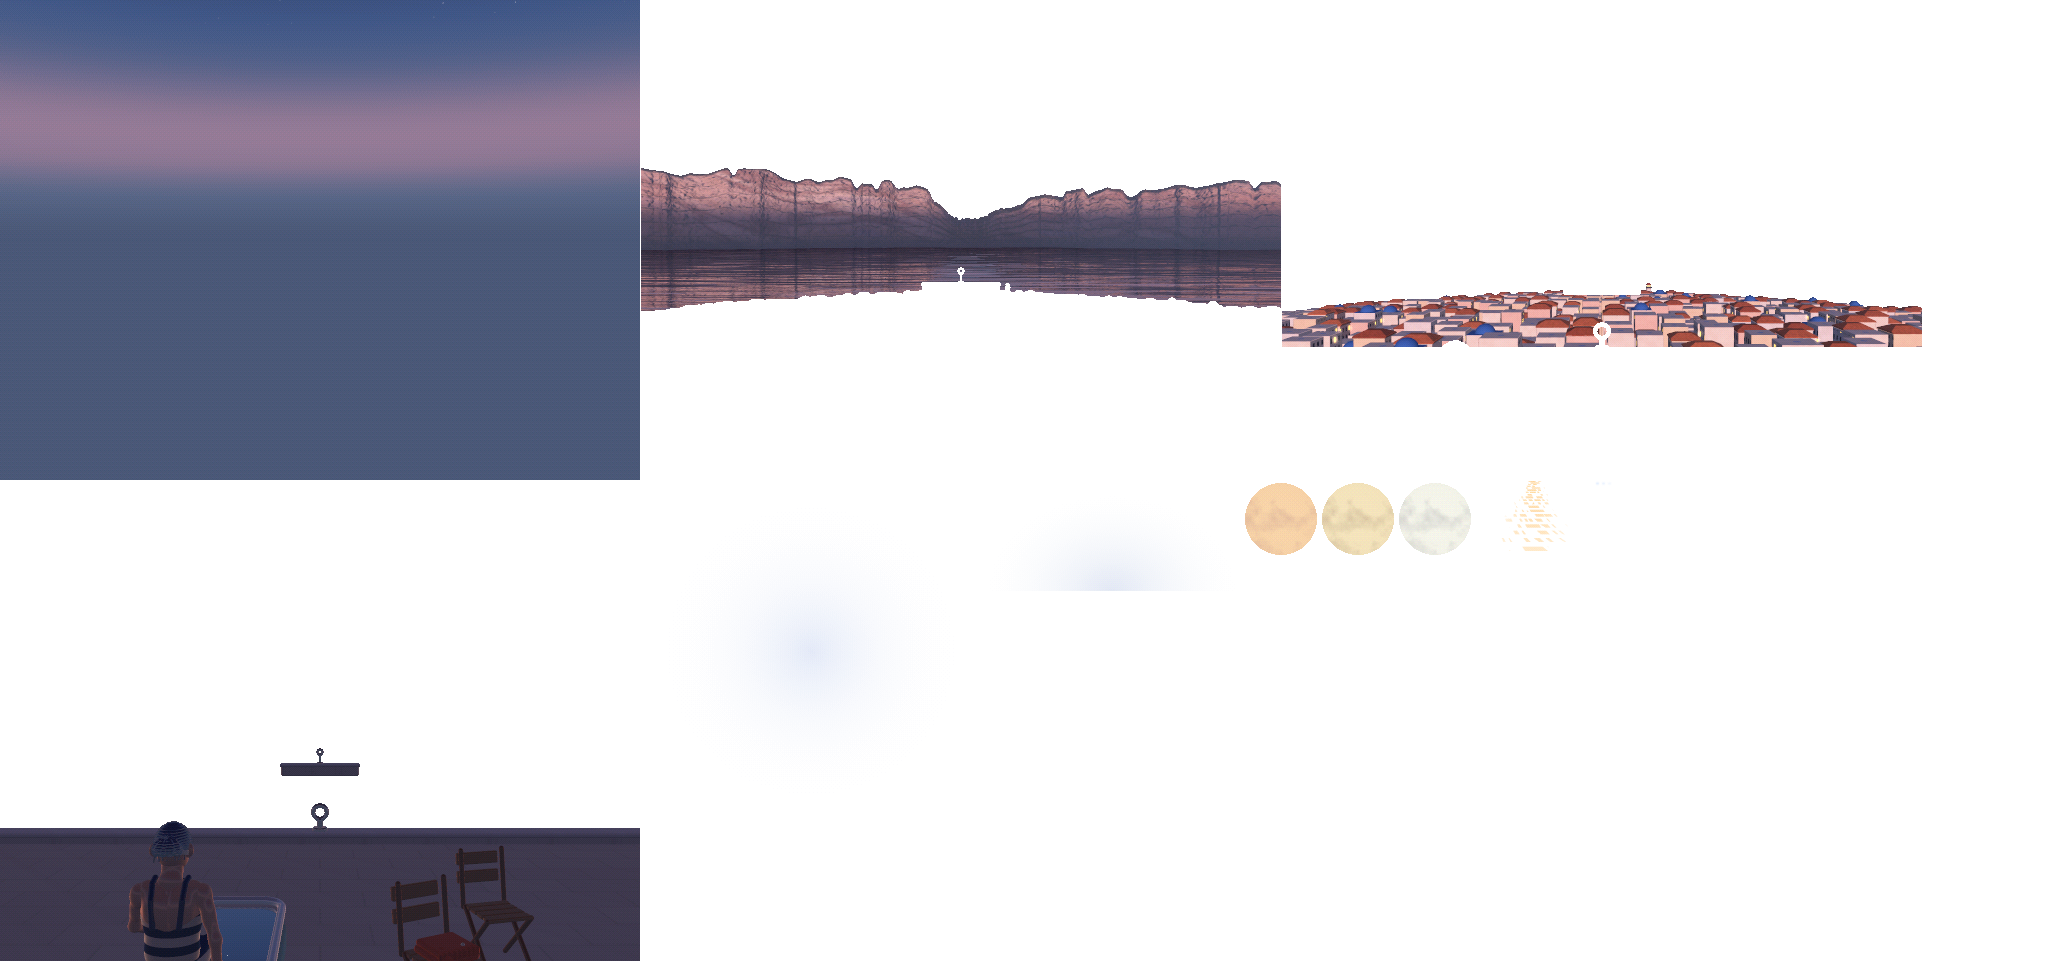
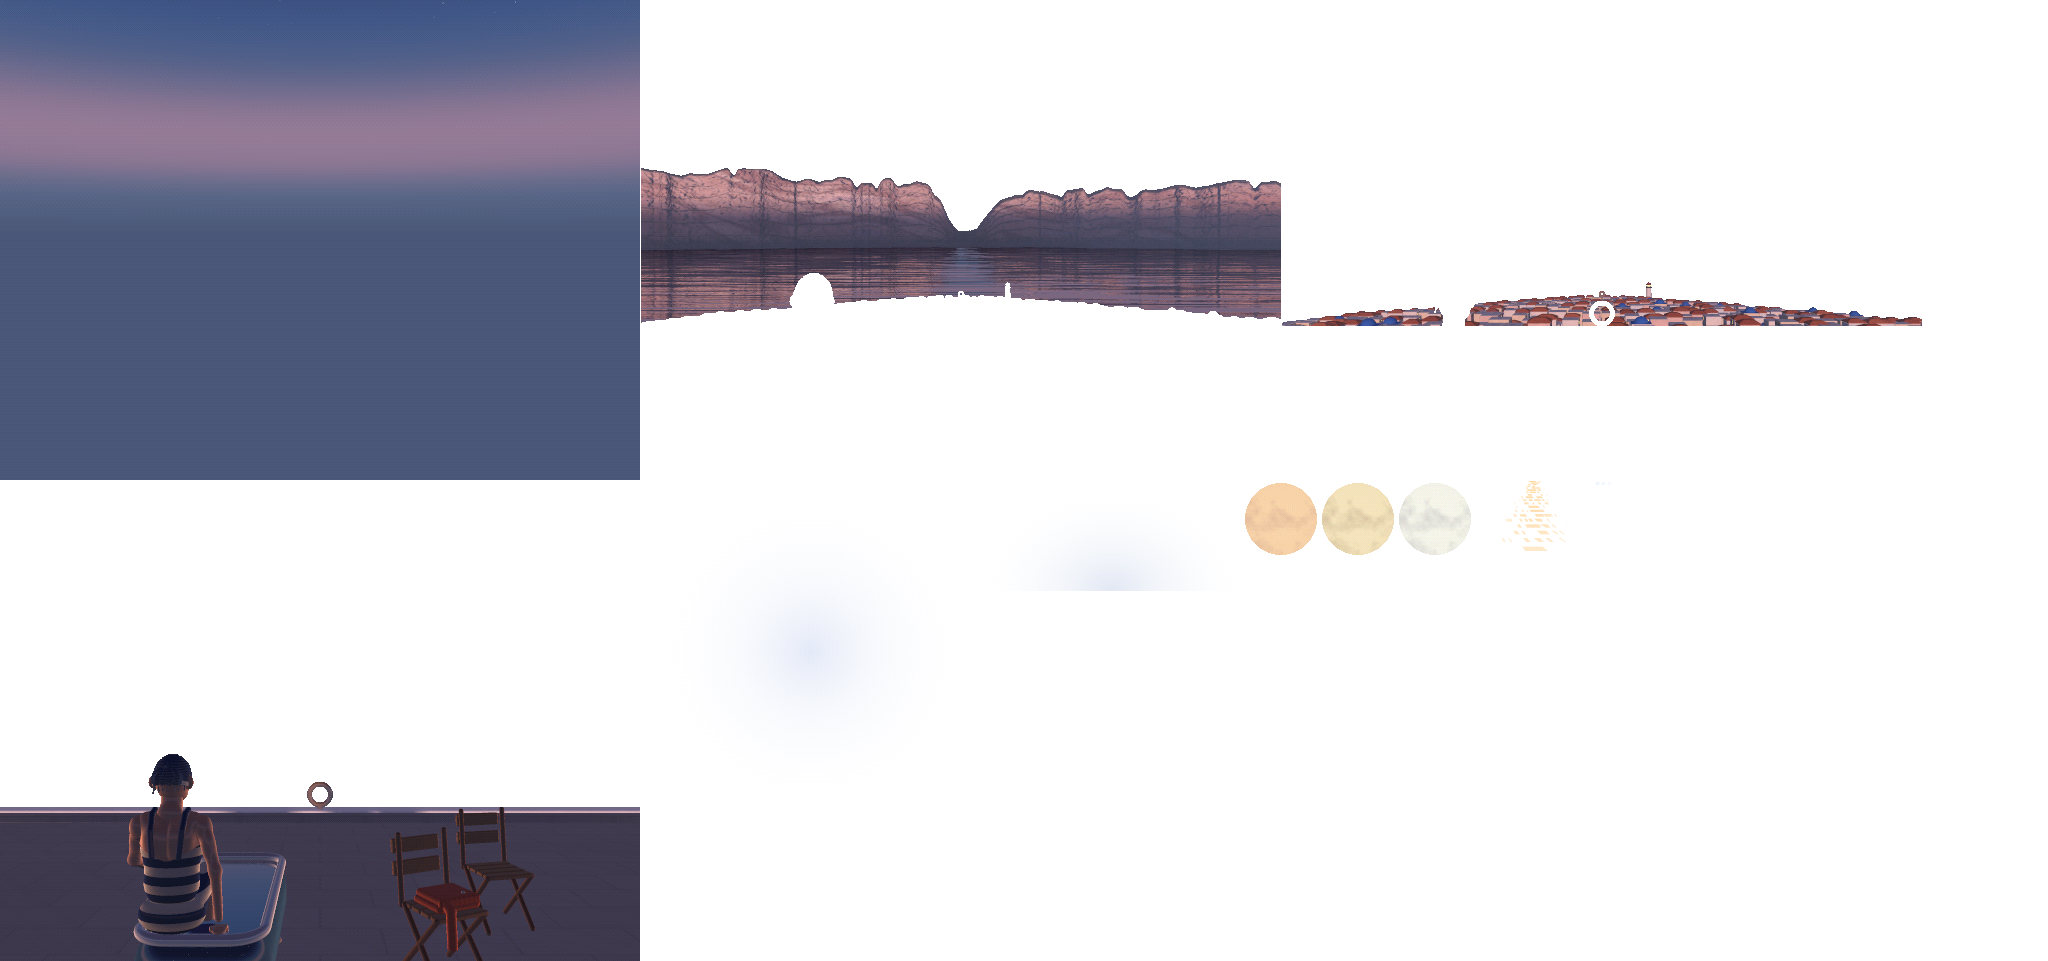
Moonrise: a deep Gate, a larger plain near pin, the far pin on the town's back row, Cheryl's framing and rim light restored
- The Gate: a deep notch with its saddle near the waterline; the rest of the
  new skyline kept.
- Pins: the near ring larger (~24 px), plain, on its rod, catching the last
  light with the low wall's coping; the far pin small, directly above it, on a
  house in the town's back row (the floating far parapet is gone).
- Cheryl: r6's framing (her hips on the rim, her hand on it, the tub's lip);
  a stronger warm rim on her silhouette, not on the floor; the cap navy.
- The town a step darker, sloping lower toward the shore with lower houses.

Changed region(s): [[0.3125, 0.1873, 0.9375, 0.3746], [0.0, 0.7804, 0.3125, 1.0]]

diff --git a/game/assets/iso/manifest.js b/game/assets/iso/manifest.js
@@ -697,13 +697,13 @@ export default {"tile":{"w":64,"h":32,"zPx":40},"sheets":{"cheryl":{"image":"che
 "twinkle_0":[1595,481,5,5,2,2],
 "twinkle_1":[1601,481,5,5,2,2],
 "twinkle_2":[1607,481,5,5,2,2]},
-"twinkles":[[515,342],[219,336],[300,346],[582,341],[127,334],[270,335],[339,331],[478,333],[583,332],[8,332],[41,334],[173,329],[600,333],[39,327],[215,325],[305,318],[336,323],[392,325],[424,322],[629,329],[83,334],[139,321],[167,323],[277,319],[305,315],[391,317],[447,325],[559,333],[586,339],[28,318],[78,321],[154,318],[231,311],[333,313],[433,315],[486,318],[562,315],[17,332],[136,314],[331,324]],"picture":true,
+"twinkles":[[231,325],[357,322],[195,324],[309,321],[354,321],[332,323],[505,321],[548,324],[209,315],[250,320],[329,322],[77,320],[193,324],[252,324],[272,323],[290,316],[522,318],[544,320],[93,319],[130,317],[202,313],[294,311],[401,315],[473,317],[491,325],[510,316],[528,316],[618,323],[154,313],[205,316],[276,311],[293,320],[365,312],[575,320],[81,325],[98,324],[230,310],[245,310],[461,316],[493,321]],"picture":true,
 "size":[640,480],
 "order":["sky","glow","moon_halo","moon","far","path","town","fg","twinkle"],
-"glowAt":[438,191],"moonRise":{
-"from":[438,228],
-"to":[508,69]},
-"gate":[320,219],"pathTop":268},"ui":{"image":"ui.png","frames":{
+"glowAt":[438,190],"moonRise":{
+"from":[438,227],
+"to":[508,68]},
+"gate":[320,231],"pathTop":268},"ui":{"image":"ui.png","frames":{
 "panel_dialog":[129,0,96,96,0,0],
 "panel_narration":[226,0,96,96,0,0],
 "panel_thought":[323,0,96,96,0,0],

diff --git a/docs/iso-art-direction.md b/docs/iso-art-direction.md
@@ -107,8 +107,9 @@ Pictures are rendered in true perspective at 640×480 by `iso-art/lib/persp.mjs`
 
 **The moonrise** (`moonrise`) looks east from behind the tub, rendered at 3×3 supersampling.
 - **Cheryl** is sculpted for this picture (`iso-art/models/vista-cheryl.mjs`), not built with the sprite rig: a ribbed, folded cap over the bun with a cream band and loose strands of ash hair at the nape; an ear and the line of the jaw; shoulders, shoulder blades, and the spine's groove under the skin; straps over the shoulders; a knit costume; arms with form; and her right hand, fingers and thumb, on the tub's rim. She sits on the rim at lower left, the water in front of her.
-- **The sighting pins** are two separate bronze pins (design step 5), not a reticle: the near one large and low on the dark line of the low wall at the bottom center, the far one small and directly above it on a short run of the far parapet, near the Rim's foot. The eye runs up the pair to the Gate's saddle; the moon rises to the right of that line. (A first version made them concentric rings with crosswires; the review found it read as one sniper-scope reticle, against the game's tone.)
-- **Values:** the roof is in the shadow of the houses to the west, so the foreground is the darkest value: deep cool violet, no cast shadows, Cheryl a silhouette with a warm rim from the lit world beyond. The town and the cliffs carry the light. The tub's water is dark and still, with the moon's faint silver in it.
+- **The sighting pins** are two separate plain bronze pins (design step 5), not a reticle: the near one large (a ring about 24 px across) and low on the dark line of the low wall at the bottom center, catching the last light; the far one small, directly above it, on the parapet of a house in the town's back row (drawn larger than life so it reads at that distance). The eye runs up the pair to the Gate; the moon rises to the right of that line. (A first version made them concentric rings with crosswires, which read as one sniper-scope reticle; a far parapet floating over the town read as a barge.)
+- **The Gate** is a deep notch, its sides dropping to near the waterline (saddle at about 34 m against a skyline of ~400 m), steep on the north and gentler with a shoulder on the south.
+- **Values:** the roof is in the shadow of the houses to the west, so the foreground is the darkest value: deep cool violet, no cast shadows, Cheryl a silhouette with a warm rim from the lit world beyond (on her shoulders, arms and cap edge, never on the floor). The low wall's coping and the near pin just catch the last light. The town and the cliffs carry the light. The tub's water is dark and still, with the moon's faint silver in it.
 - **The Rim** is a heightfield in polar coordinates: a broken skyline with towers and small notches, great buttresses standing out and bays falling back, a few broad gullies, ledges running along the beds and fading in and out, scree fans at the foot and a wet line at the shore. Rock color varies by tilted bed, with iron-stained patches and scrub on the ledges, and a normal perturbation adds crags. The Gate is an asymmetric notch with a worn saddle: steep on the north (left) side, gentler with a shoulder on the south. (Sharp-creased noise and fast-changing ledge offsets both cut the face into vertical seams; both are smoothed.)
 - **The sky** is a smooth dusk gradient for an eastward view: the blue-grey Earth's shadow on the horizon, the Belt of Venus as a broad soft rose glow above it, blue deepening to indigo overhead, a few bright stars; the moon's broad silver halo brightens the sky round it.
 - The town runs ahead in rows and streets down the island's back, hazing with depth, each house its own weathered tone, terracotta varied, west walls in the last warm light and side faces in violet shade; street lamps and lit windows carry soft warm halos baked into the `town` layer, and the basins glint; to the Prow's lighthouse; the Bowl mirrors the sky in long streaks; the moon's path of thin glints shows only on the water, under the `town` layer. The two folding chairs stand to her right, her cardigan folded on the nearer.
